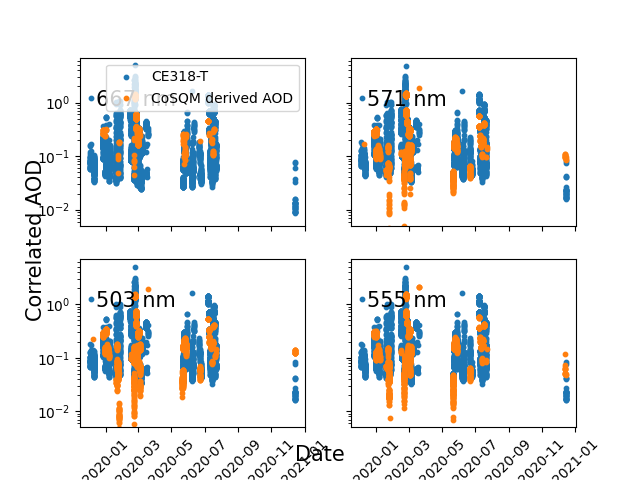
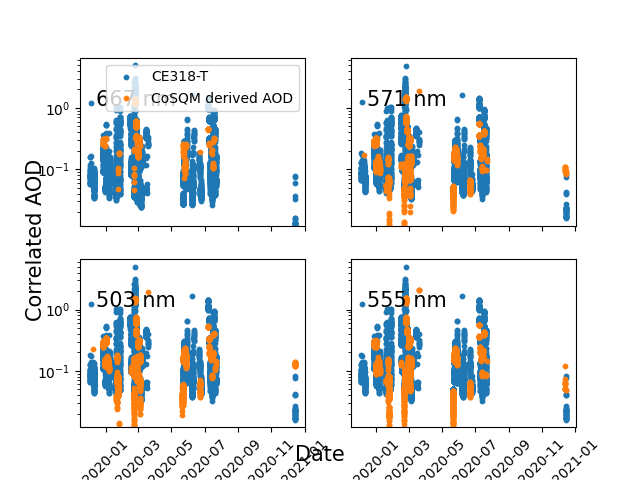
added variance plots

diff --git a/aeronet_cosqm_correlation_santa.py b/aeronet_cosqm_correlation_santa.py
@@ -614,6 +614,10 @@ wls2 = np.ones((aod_am.shape[0], 4))*np.array([675, 500, 500, 500])     # CE318-
 def aod_from_angstrom(aod2, wls1, wls2, alpha):
     return aod2*(wls1/wls2)**-alpha
 
+def angstrom_from_aod(ind1, ind2):
+    return -np.log(cosqm_aod_all[:,ind1]/cosqm_aod_all[:,ind2])/np.log(cosqm_bands[ind1]/cosqm_bands[ind2])
+
+
 aod_am_corr = aod_from_angstrom(aod_am, wls1, wls2, angstrom_am)
 aod_pm_corr = aod_from_angstrom(aod_pm, wls1, wls2, angstrom_pm)
 
@@ -691,9 +695,12 @@ cosqm_aod_all = np.array((cosqm_aod_r, cosqm_aod_g, cosqm_aod_b, cosqm_aod_y)).T
 
 #xs = np.arange(np.nanmin(cosqm_am),np.nanmax(cosqm_pm),0.001)
 xs = np.arange(15,24,0.0001)
+cosqm_santa_angstrom = angstrom_from_aod(1,2)
 
 c1='#1f77b4'
 c2='#ff7f0e'
+
+
 
 #single fit function: correlation
 fig, ax = plt.subplots(2,2, sharex=True, sharey=True, figsize=(10,6))
@@ -750,15 +757,50 @@ ax[1, 1].text(0.25,0.75, f'{cosqm_bands[3]} nm', horizontalalignment='center', v
 plt.savefig('figures/continuity/continuity_santa_20200521.png')
 
 
-def angstrom_from_aod(ind1, ind2):
-    return -np.log(cosqm_aod_all[:,ind1]/cosqm_aod_all[:,ind2])/np.log(cosqm_bands[ind1]/cosqm_bands[ind2])
+#single fit function: continuity -> variance for uncertainty
+fig, ax = plt.subplots(2,2, sharex=True, sharey=True, dpi=150, figsize=(6,4))
+ax[0,0].scatter(dt_aod, data_aod[:,0], s=10, label='CE318-T')
+ax[0,0].scatter(dt_santa_corr, cosqm_aod_r, s=10, label='CoSQM derived AOD')
+ax[0,1].scatter(dt_aod, data_aod[:,1], s=10)
+ax[0,1].scatter(dt_santa_corr, cosqm_aod_g, s=10)
+ax[1,0].scatter(dt_aod, data_aod[:,2], s=10)
+ax[1,0].scatter(dt_santa_corr, cosqm_aod_b, s=10)
+ax[1,0].tick_params('x', labelrotation=45)
+ax[1,1].scatter(dt_aod, data_aod[:,3], s=10)
+ax[1,1].scatter(dt_santa_corr, cosqm_aod_y, s=10)
+ax[1,1].tick_params('x', labelrotation=45)
+ax[0, 0].set_yscale('log')
+ax[0,0].set_xlim(pd.Timestamp('2020-05-23 12'), pd.Timestamp('2020-05-24 10'))
+ax[0,0].set_ylim(0.12,0.22)
+#fig.text(0.5, 0.04, 'Date', ha='center', fontsize=15)
+fig.text(0.04, 0.5, 'Correlated AOD', va='center', rotation='vertical', fontsize=15)
+ax[0,0].legend(loc='lower center')
+ax[0, 0].text(0.25,0.75, f'{cosqm_bands[0]} nm', horizontalalignment='center', verticalalignment='center', transform=ax[0,0].transAxes, fontsize=15)
+ax[0, 1].text(0.25,0.75, f'{cosqm_bands[1]} nm', horizontalalignment='center', verticalalignment='center', transform=ax[0,1].transAxes, fontsize=15)
+ax[1, 0].text(0.25,0.75, f'{cosqm_bands[2]} nm', horizontalalignment='center', verticalalignment='center', transform=ax[1,0].transAxes, fontsize=15)
+ax[1, 1].text(0.25,0.75, f'{cosqm_bands[3]} nm', horizontalalignment='center', verticalalignment='center', 
+transform=ax[1,1].transAxes, fontsize=15)
+plt.savefig('figures/continuity/continuity_santa_20200524_variance.png')
 
-cosqm_santa_angstrom = angstrom_from_aod(1,2)
+#single fit function: continuity Angstrom -> variance uncertainty
+fig, ax = plt.subplots(1,1, dpi=150, figsize=(8,5))
+ax.scatter(dt_aod, data_angstrom, s=10, label='CE318-T derived 440-679nm AE')
+ax.scatter(dt_santa_corr, cosqm_santa_angstrom, s=10, label='CoSQM derived 514-629nm AE')
+ax.tick_params('x', labelrotation=45)
+#ax.set_xlim(pd.Timestamp('2020-05-23 12'), pd.Timestamp('2020-05-24 10'))
+#ax.set_ylim(-0.4,0.5)
+#ax.set_yscale('log')
+#fig.text(0.5, 0.04, 'Date', ha='center', fontsize=15)
+fig.text(0.04, 0.5, 'Angstrom exponent', va='center', rotation='vertical', fontsize=15)
+plt.savefig('figures/continuity/continuity_santa_angstrom_variance.png')
+
+
+
 
 #single fit function: continuity Angstrom
 fig, ax = plt.subplots(1,1, dpi=150)
-ax.scatter(dt_santa_corr, cosqm_santa_angstrom, s=10, label='CoSQM derived 514-629nm AE')
 ax.scatter(dt_aod, data_angstrom, s=10, label='CE318-T derived 440-679nm AE')
+ax.scatter(dt_santa_corr, cosqm_santa_angstrom, s=10, label='CoSQM derived 514-629nm AE')
 ax.tick_params('x', labelrotation=45)
 #ax.set_yscale('log')
 fig.text(0.5, 0.04, 'Date', ha='center', fontsize=15)
